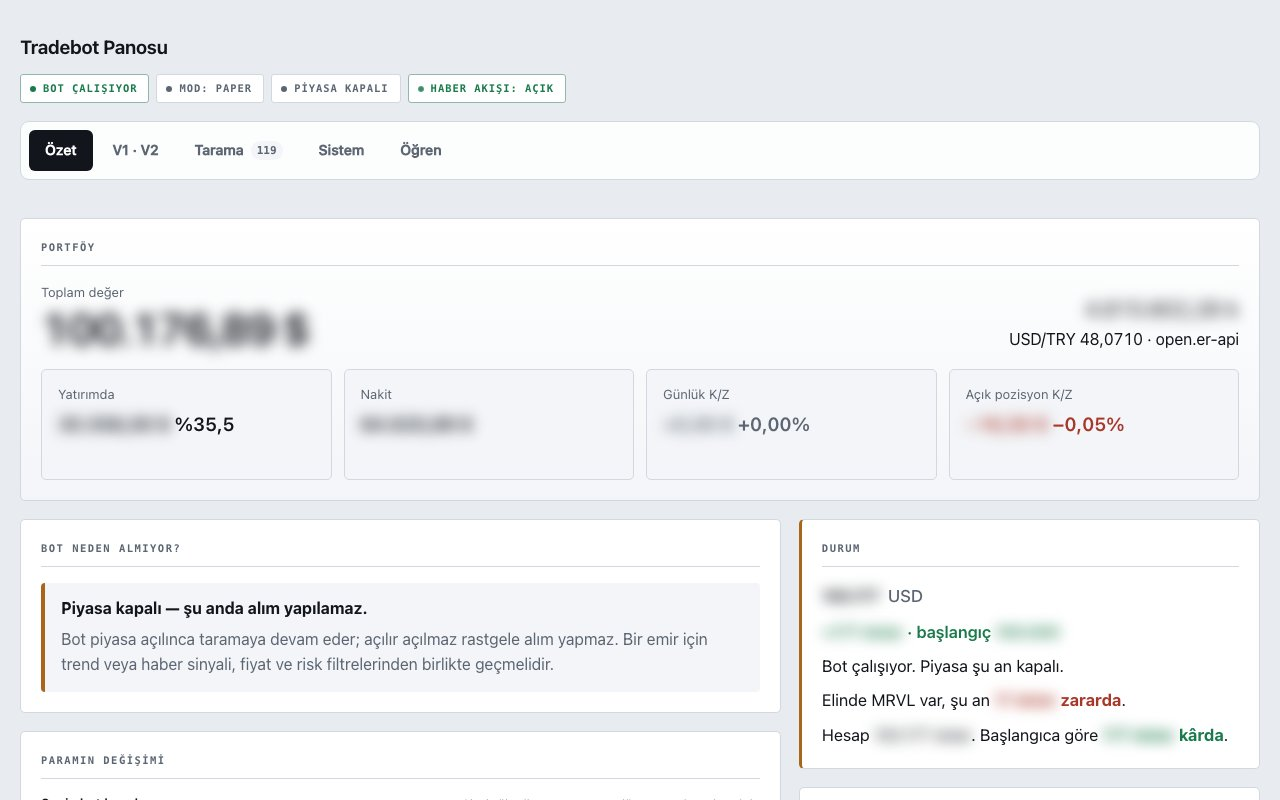
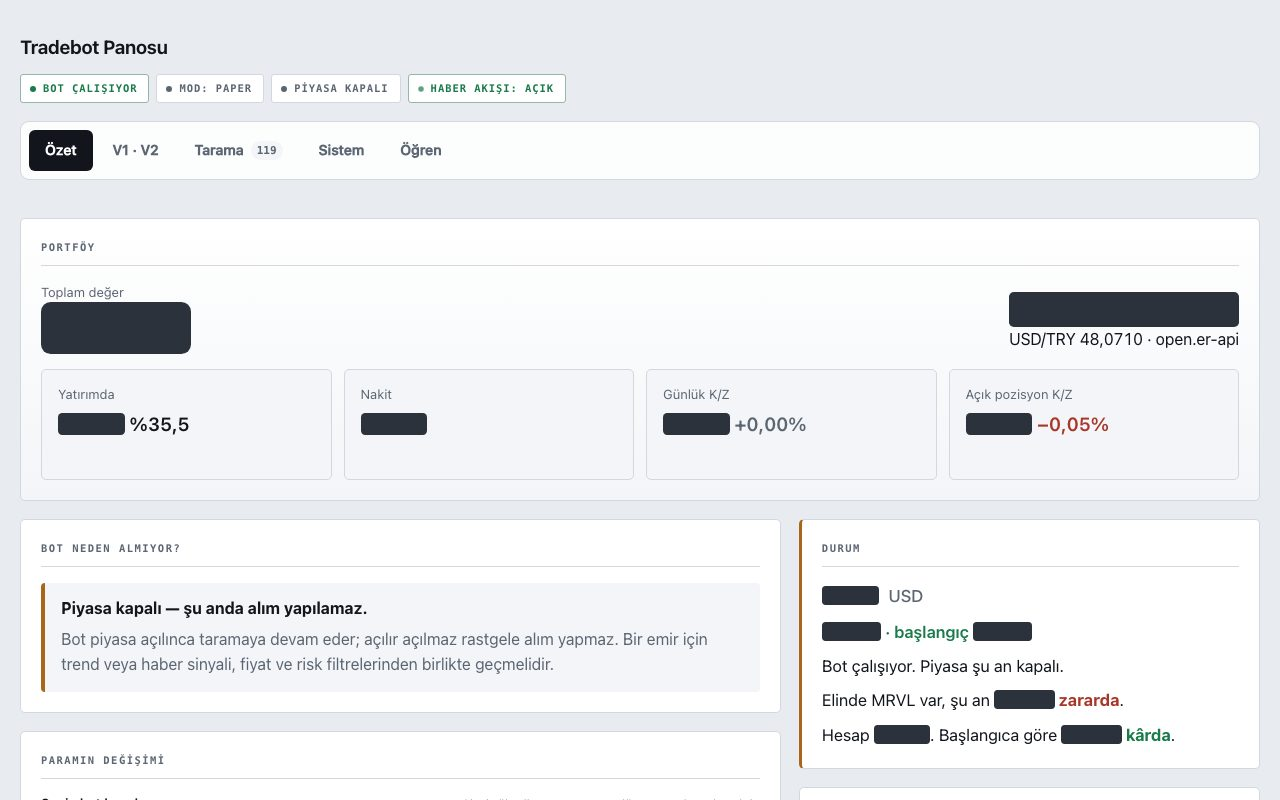
Cover all money amounts in the trading bot screenshot with solid boxes, match the edge-fade covers to the table panel color, note the Turkish interface in screenshot captions, remove two unused i18n keys and enlarge the swipe note.

diff --git a/index.html b/index.html
@@ -12,8 +12,8 @@
   <link rel="preconnect" href="https://fonts.gstatic.com" crossorigin>
   <link rel="stylesheet" href="https://fonts.googleapis.com/css2?family=JetBrains+Mono:wght@500;700&family=Space+Grotesk:wght@400;500;700&display=swap" media="print" onload="this.media='all'">
   <noscript><link rel="stylesheet" href="https://fonts.googleapis.com/css2?family=JetBrains+Mono:wght@500;700&family=Space+Grotesk:wght@400;500;700&display=swap"></noscript>
-  <link rel="stylesheet" href="style.css?v=polish-a1">
-  <script src="i18n.js?v=shots-v1" defer></script>
+  <link rel="stylesheet" href="style.css?v=polish-a2">
+  <script src="i18n.js?v=shots-v2" defer></script>
   <script src="script.js?v=models-v3" defer></script>
   <script src="lab.js?v=models-v3" defer></script>
 </head>
@@ -160,7 +160,7 @@
           </div>
           <h3><span data-i18n="Trading bot">Trading bot</span></h3>
           <p><span data-i18n="A US stock trading experiment on an Alpaca paper account. I use it to test strategies and report both improvements and regressions.">A US stock trading experiment on an Alpaca paper account. I use it to test strategies and report both improvements and regressions.</span></p>
-          <figure class="project-preview"><img src="assets/tradebot-pano.jpg" width="1280" height="800" alt="Trading bot dashboard on a paper account, with money amounts blurred." data-i18n-alt="Trading bot dashboard on a paper account, with money amounts blurred." loading="lazy"><figcaption><span data-i18n="Dashboard · paper account, amounts blurred">Dashboard · paper account, amounts blurred</span></figcaption></figure>
+          <figure class="project-preview"><img src="assets/tradebot-pano.jpg" width="1280" height="800" alt="Trading bot dashboard on a paper account, with money amounts hidden." data-i18n-alt="Trading bot dashboard on a paper account, with money amounts hidden." loading="lazy"><figcaption><span data-i18n="Dashboard · paper account, amounts hidden, Turkish interface">Dashboard · paper account, amounts hidden, Turkish interface</span></figcaption></figure>
           <div class="project-facts"><div class="fact"><h4><span data-i18n="Why I built it">Why I built it</span></h4><p><span data-i18n="A trading strategy is easy to make look better than it is.">A trading strategy is easy to make look better than it is.</span></p></div><div class="fact"><h4><span data-i18n="Current status">Current status</span></h4><p><span data-i18n="Paper account, fake money only.">Paper account, fake money only.</span></p></div><details class="technical-details"><summary><span data-i18n="How it works">How it works</span></summary><div><span data-i18n="It trades US stocks on a paper account through the Alpaca API. There is no crypto and no leverage: position size is limited by cash, and tests enforce both rules. AI analysis runs through the Claude and Codex command-line tools, not paid API keys.">It trades US stocks on a paper account through the Alpaca API. There is no crypto and no leverage: position size is limited by cash, and tests enforce both rules. AI analysis runs through the Claude and Codex command-line tools, not paid API keys.</span></div></details></div>
           <ul class="tags" aria-label="Technologies" data-i18n-aria-label="Technologies">
             <li>Python</li><li>Alpaca API</li><li>pytest</li><li class="priv"><span data-i18n="private repo">private repo</span></li>
@@ -216,7 +216,7 @@
           </div>
           <h3><span data-i18n="Video rough-cut tool">Video rough-cut tool</span></h3>
           <p><span data-i18n="A video tool that transcribes with Whisper, suggests cuts and waits for my approval before exporting.">A video tool that transcribes with Whisper, suggests cuts and waits for my approval before exporting.</span></p>
-          <figure class="project-preview"><img src="assets/kaba-kurgu.jpg" width="1280" height="800" alt="Cut list the tool suggested for a test video, next to the transcript." data-i18n-alt="Cut list the tool suggested for a test video, next to the transcript." loading="lazy"><figcaption><span data-i18n="Suggested cuts for the test video">Suggested cuts for the test video</span></figcaption></figure>
+          <figure class="project-preview"><img src="assets/kaba-kurgu.jpg" width="1280" height="800" alt="Cut list the tool suggested for a test video, next to the transcript." data-i18n-alt="Cut list the tool suggested for a test video, next to the transcript." loading="lazy"><figcaption><span data-i18n="Suggested cuts for the test video, Turkish interface">Suggested cuts for the test video, Turkish interface</span></figcaption></figure>
           <div class="project-facts"><div class="fact"><h4><span data-i18n="Why I built it">Why I built it</span></h4><p><span data-i18n="I wanted to learn how rough cutting can be automated, starting with a small version I can measure.">I wanted to learn how rough cutting can be automated, starting with a small version I can measure.</span></p></div><div class="fact"><h4><span data-i18n="Current status">Current status</span></h4><p><span data-i18n="Version 1, running. Tested on a test video so far. The code is on my computer only, not on GitHub.">Version 1, running. Tested on a test video so far. The code is on my computer only, not on GitHub.</span></p></div><details class="technical-details"><summary><span data-i18n="How it works">How it works</span></summary><div><span data-i18n="Whisper (small model by default) transcribes the audio and FFmpeg finds the silent gaps. The suggested cuts are written to a list that I read first. The original video is never changed.">Whisper (small model by default) transcribes the audio and FFmpeg finds the silent gaps. The suggested cuts are written to a list that I read first. The original video is never changed.</span></div></details></div>
           <ul class="tags" aria-label="Technologies" data-i18n-aria-label="Technologies">
             <li>Python</li><li>Whisper</li><li>FFmpeg</li><li class="priv"><span data-i18n="local only">local only</span></li>

diff --git a/i18n.js b/i18n.js
@@ -51,10 +51,10 @@ window.PortfolioTranslations = {
   "Try the app": "Uygulamayı dene",
   "Source code": "Kaynak kod",
   "In the app · sample exams": "Uygulamadan · örnek sınavlar",
-  "Trading bot dashboard on a paper account, with money amounts blurred.": "Kağıt hesapta çalışan trading bot panosu; tutarlar bulanıklaştırıldı.",
-  "Dashboard · paper account, amounts blurred": "Pano · kağıt hesap, tutarlar bulanık",
+  "Trading bot dashboard on a paper account, with money amounts hidden.": "Kağıt hesapta çalışan trading bot panosu; tutarlar gizlendi.",
+  "Dashboard · paper account, amounts hidden, Turkish interface": "Pano · kağıt hesap, tutarlar gizlendi",
   "Cut list the tool suggested for a test video, next to the transcript.": "Aracın bir deneme videosu için önerdiği kesim listesi ve yanında konuşma metni.",
-  "Suggested cuts for the test video": "Deneme videosu için önerilen kesimler",
+  "Suggested cuts for the test video, Turkish interface": "Deneme videosu için önerilen kesimler",
   "With several midterms in one week I didn't know which course to study on which day.": "Aynı haftada birkaç vizem olunca hangi gün hangi derse çalışacağımı bilemiyordum.",
   "Live. No account needed; your plan stays in your browser.": "Yayında. Hesap gerekmez; planın tarayıcında kalır.",
   "Prioritises closer and harder exams, reserves review days and redistributes missed study time. Includes a focus timer, readiness rings and topic checklists.": "Yakın ve zor sınavlara öncelik verir, tekrar günleri ayırır ve kaçırılan çalışma süresini yeniden dağıtır. Odak sayacı, hazırlık halkaları ve konu kontrol listeleri içerir.",
@@ -111,9 +111,7 @@ window.PortfolioTranslations = {
   "Reset view": "Görünümü sıfırla",
   "Task → Model routing → Critic review": "Görev → Model seçimi → Eleştirmen kontrolü",
   "Learning system → Nightly sync → Uni panel": "Öğrenim sistemi → Gece eşitlemesi → Üniversite paneli",
-  "Market data → Strategy + limits → Paper account": "Piyasa verileri → Strateji ve sınırlar → Deneme hesabı",
   "Touch screen → ESP32-S3 → Mac actions": "Dokunmatik ekran → ESP32-S3 → Mac eylemleri",
-  "Whisper → Approve cut list → FFmpeg export": "Whisper → Kesme listesini onayla → FFmpeg ile dışa aktar",
   "Input events pass through a hardware filter so software input can continue": "Giriş olayları donanım filtresinden geçer; yazılım girdileri devam eder",
   "Exam Plan with sample exams: countdown, readiness ring, study timeline and daily blocks": "Örnek sınavlarla Exam Plan: geri sayım, hazırlık halkası, çalışma zaman çizelgesi ve günlük bloklar",
   "no extra cost (local)": "ek ücret yok (yerel)",

diff --git a/style.css b/style.css
@@ -564,11 +564,11 @@ html { scroll-padding-top: 96px; }
 /* Score tables: swipe hint and right-edge fade, narrow screens only. */
 .swipe-note { display: none; }
 @media (max-width: 700px) {
-  .swipe-note { display: block; margin: 0 0 6px; color: var(--muted); font-size: 0.8rem; }
+  .swipe-note { display: block; margin: 0 0 6px; color: var(--muted); font-size: 0.875rem; }
   .table-scroll {
     background:
-      linear-gradient(to right, var(--bg) 30%, rgba(7, 11, 20, 0)) left center / 28px 100% no-repeat local,
-      linear-gradient(to left, var(--bg) 30%, rgba(7, 11, 20, 0)) right center / 28px 100% no-repeat local,
+      linear-gradient(to right, var(--card) 30%, rgba(13, 22, 40, 0)) left center / 28px 100% no-repeat local,
+      linear-gradient(to left, var(--card) 30%, rgba(13, 22, 40, 0)) right center / 28px 100% no-repeat local,
       linear-gradient(to right, rgba(0, 0, 0, 0.45), rgba(0, 0, 0, 0)) left center / 14px 100% no-repeat scroll,
       linear-gradient(to left, rgba(61, 232, 255, 0.35), rgba(61, 232, 255, 0)) right center / 14px 100% no-repeat scroll;
   }

diff --git a/model-tests.html b/model-tests.html
@@ -12,8 +12,8 @@
   <link rel="preconnect" href="https://fonts.gstatic.com" crossorigin>
   <link rel="stylesheet" href="https://fonts.googleapis.com/css2?family=JetBrains+Mono:wght@500;700&family=Space+Grotesk:wght@400;500;700&display=swap" media="print" onload="this.media='all'">
   <noscript><link rel="stylesheet" href="https://fonts.googleapis.com/css2?family=JetBrains+Mono:wght@500;700&family=Space+Grotesk:wght@400;500;700&display=swap"></noscript>
-  <link rel="stylesheet" href="style.css?v=polish-a1">
-  <script src="i18n.js?v=shots-v1" defer></script>
+  <link rel="stylesheet" href="style.css?v=polish-a2">
+  <script src="i18n.js?v=shots-v2" defer></script>
 </head>
 <body id="top">
   <div class="sitebar">
